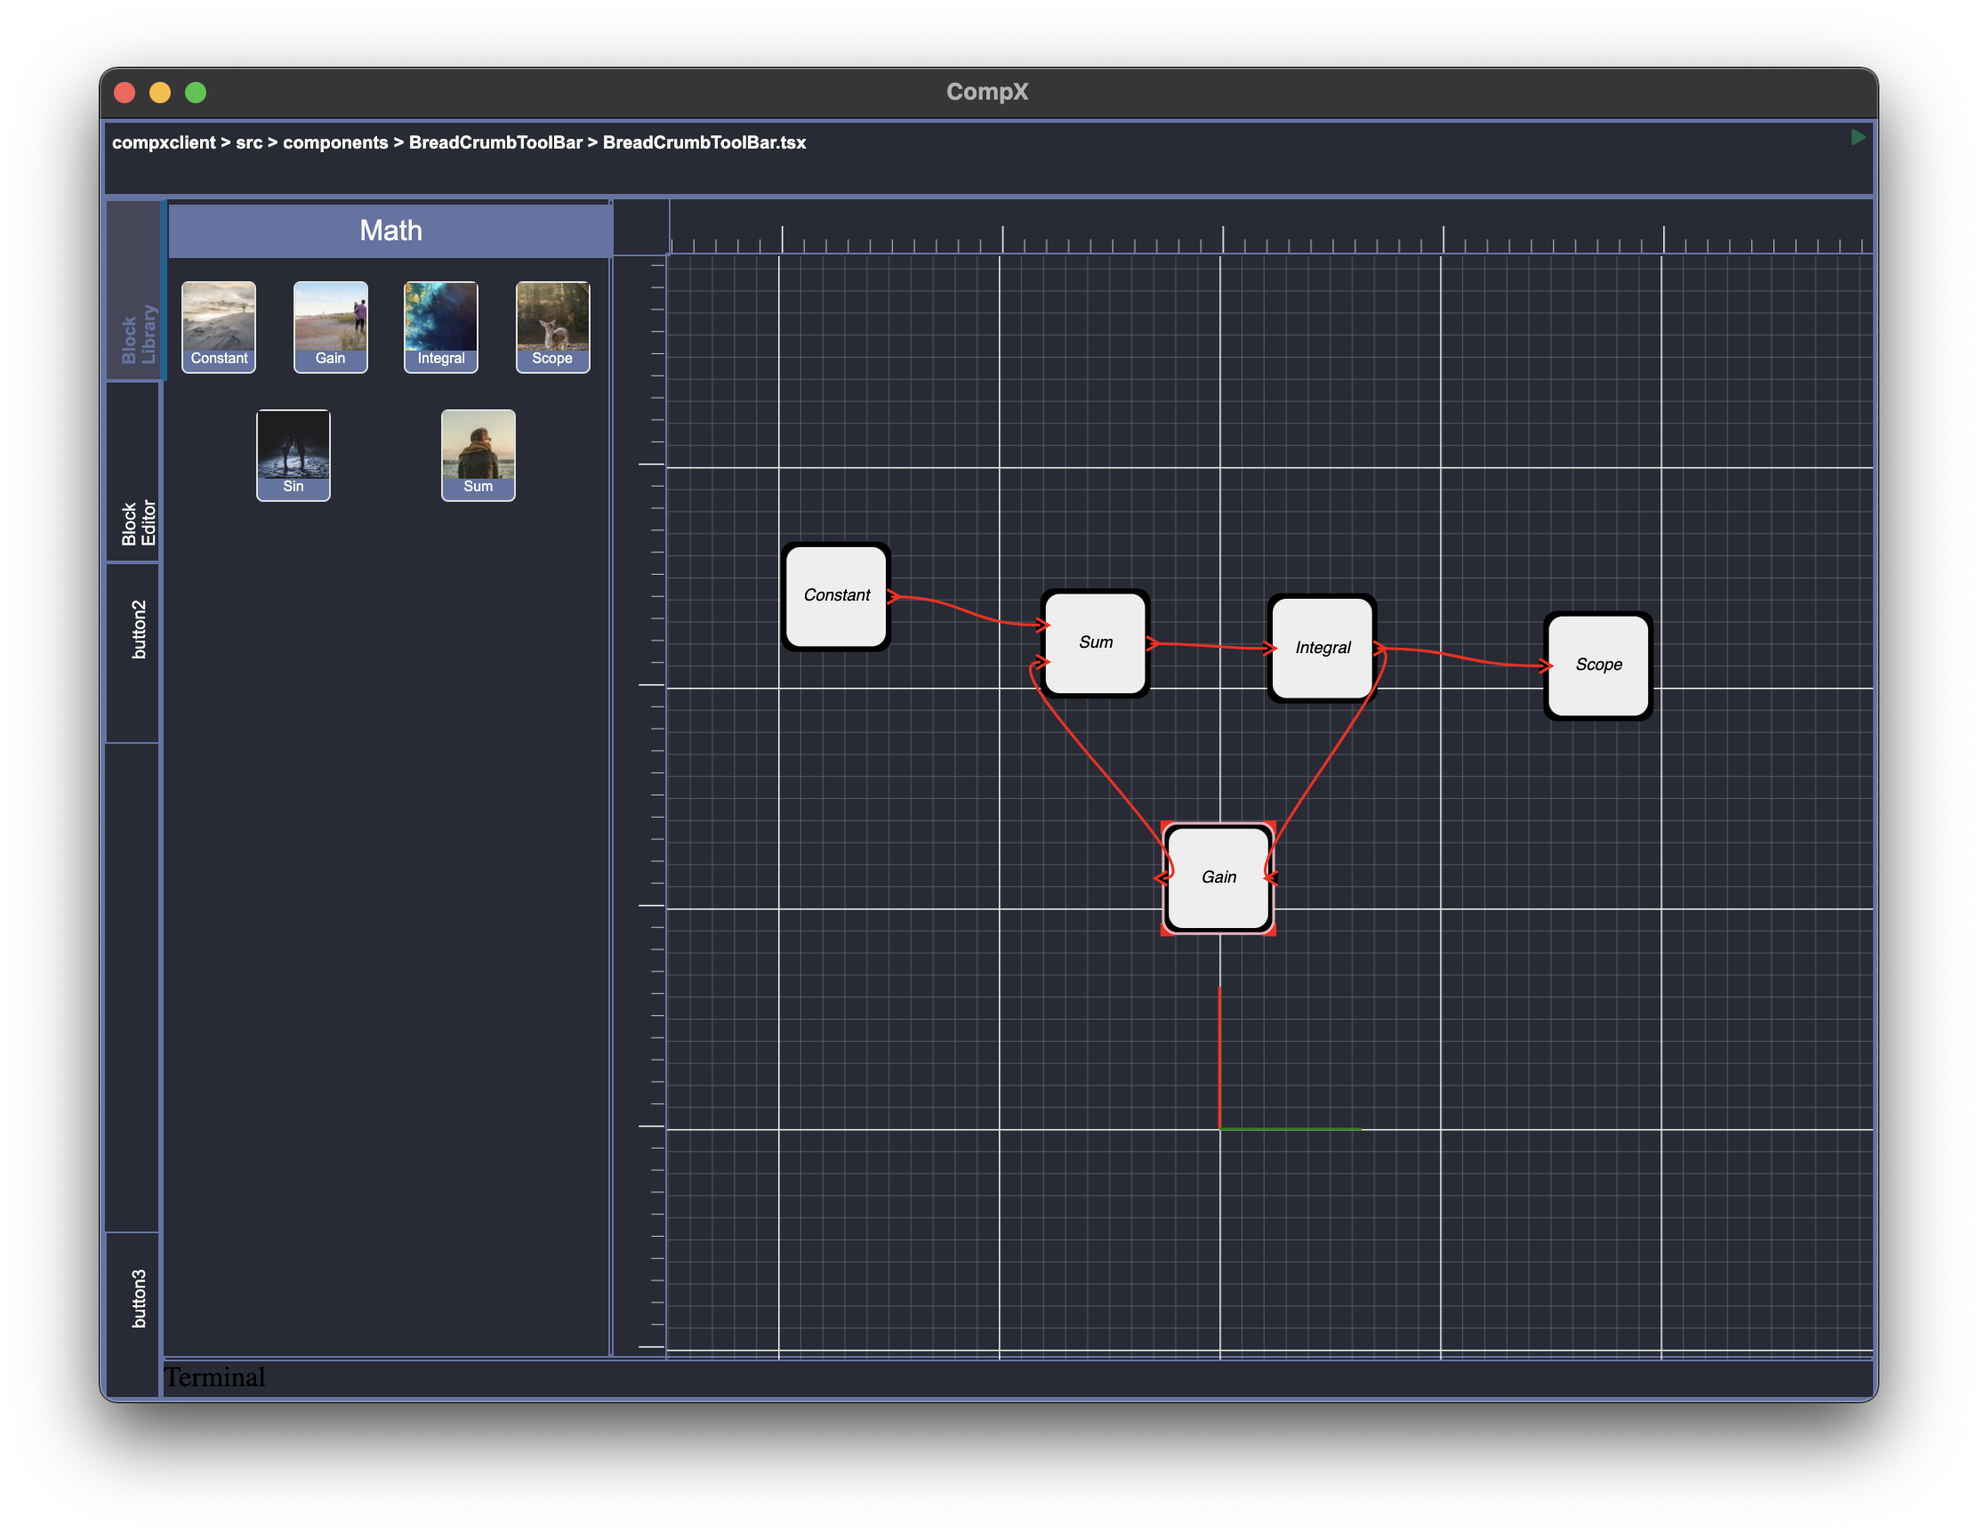
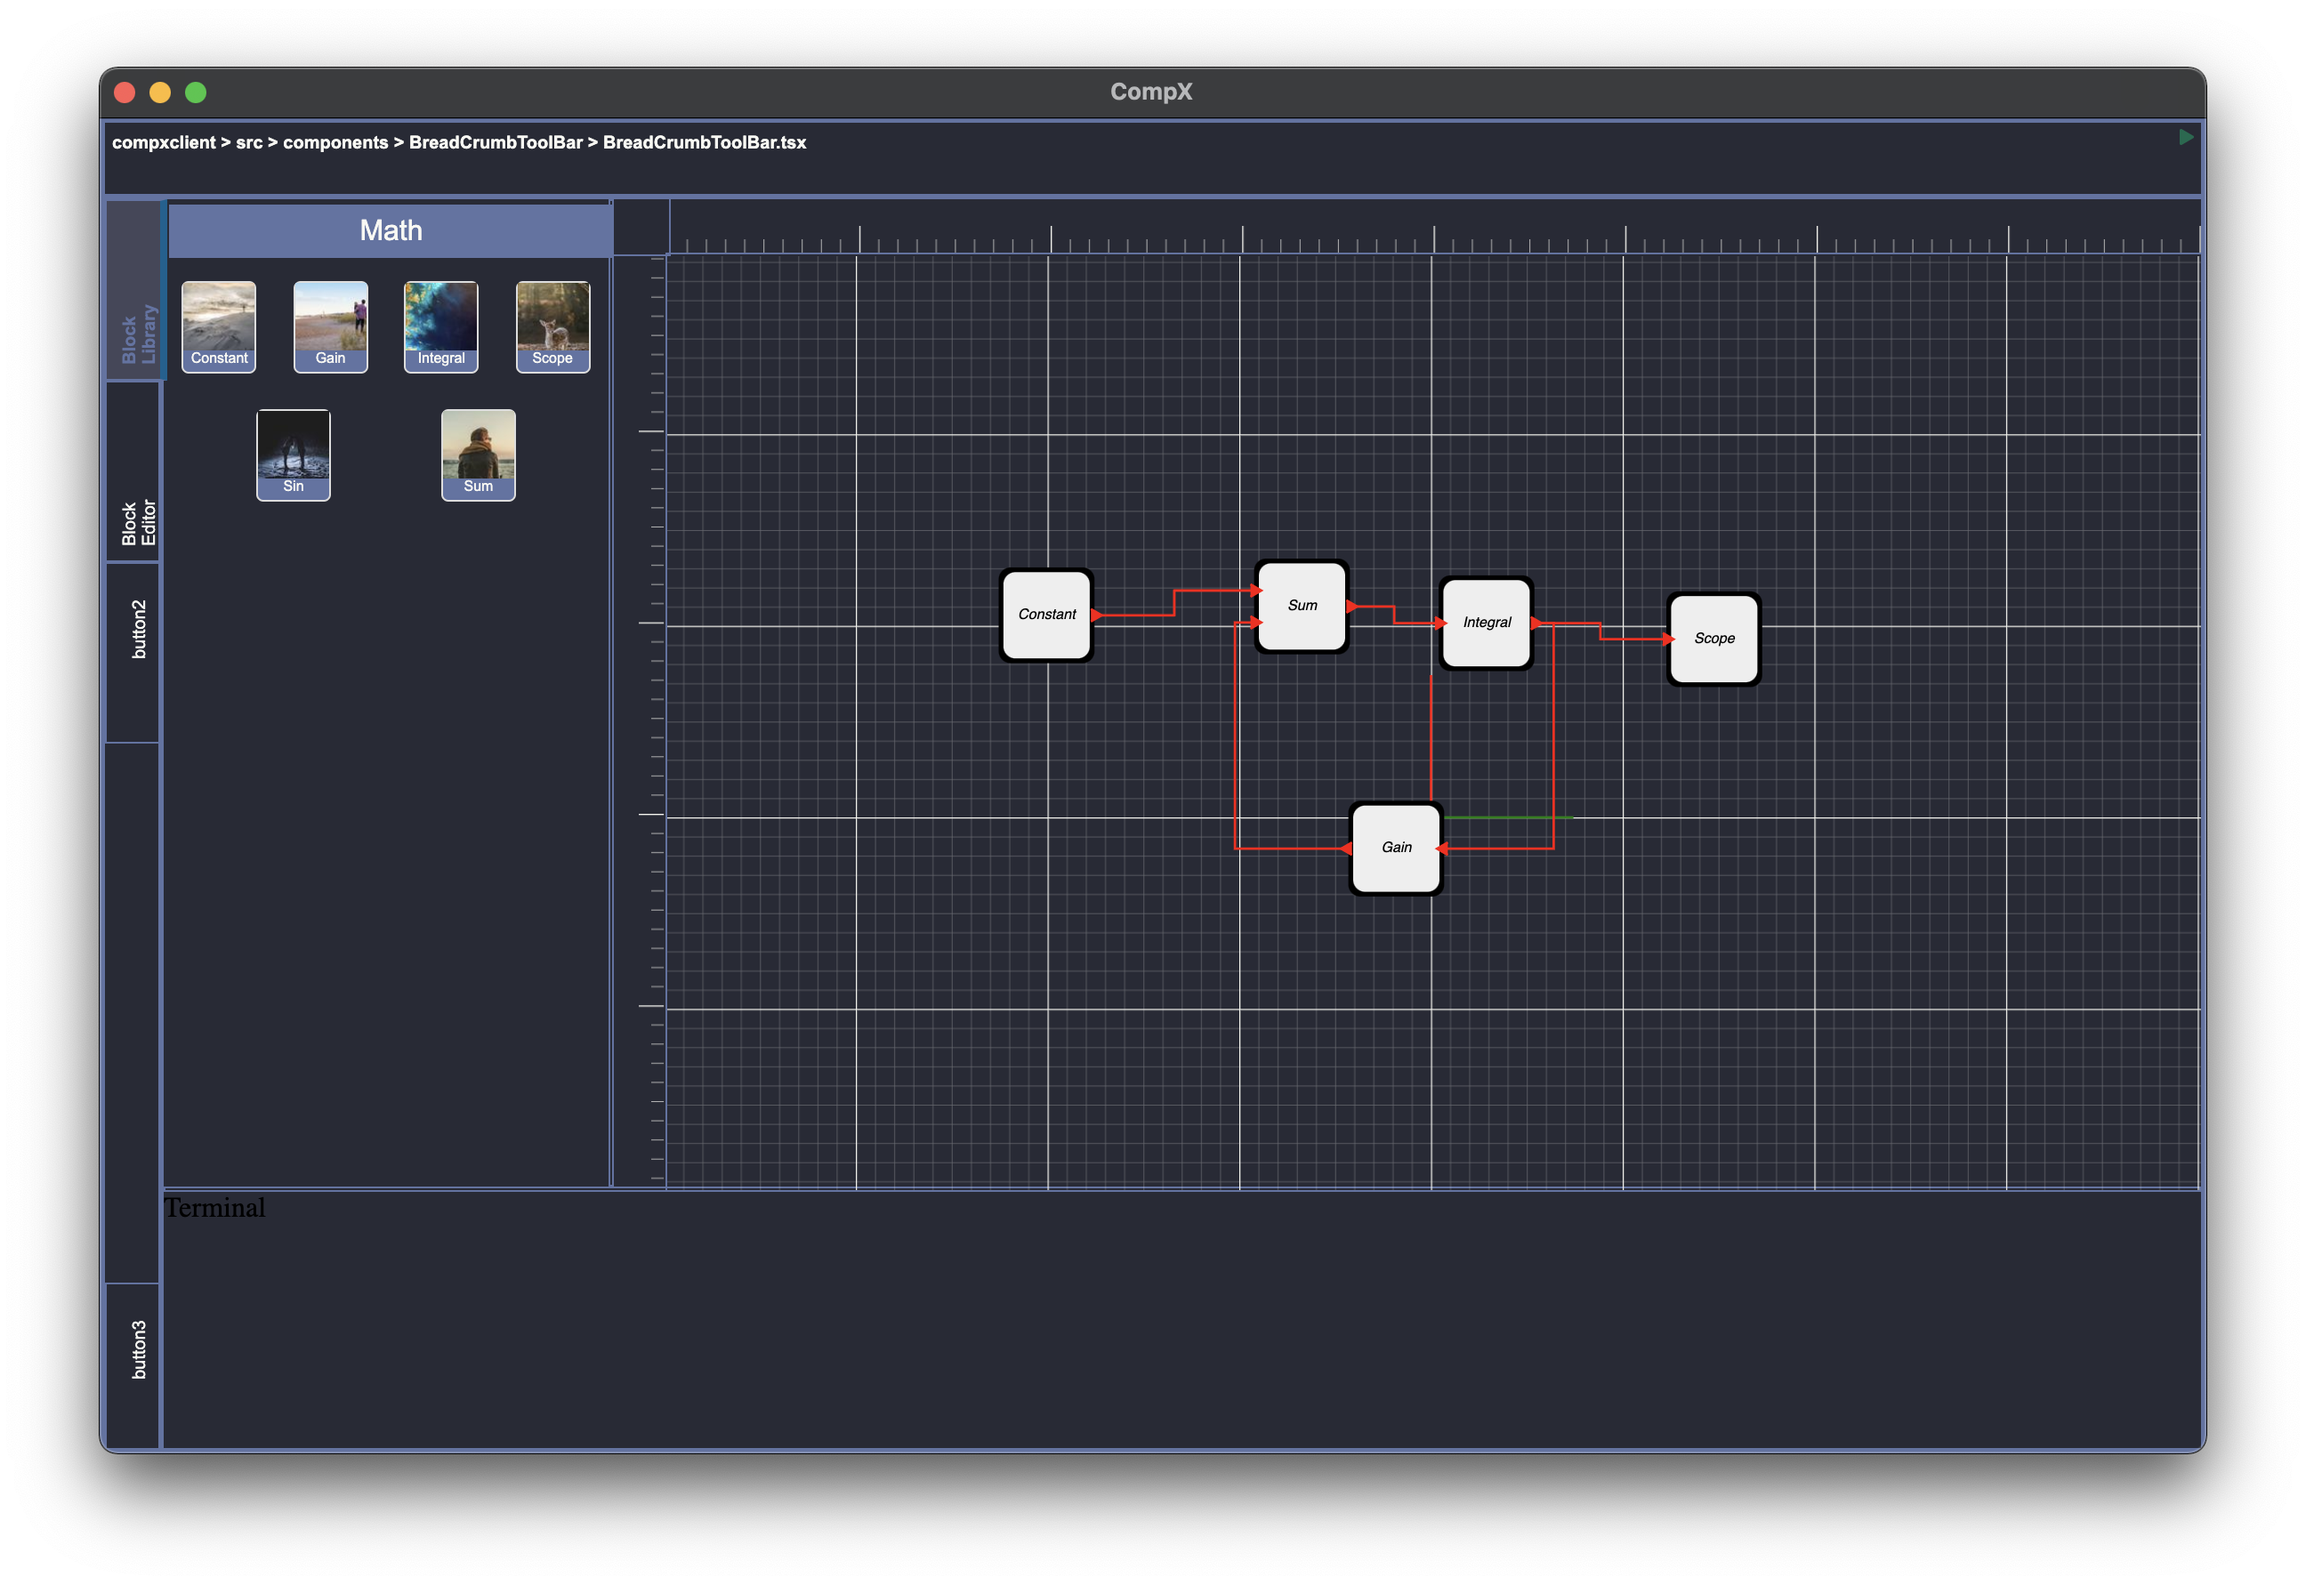
0.2.3e
- Made routing look better

Changed region(s): [[0.031, 0.0307, 0.9618, 0.953]]

diff --git a/src/app/windows/mainWindow/components/Canvas/EdgeLayer/VisualEdgeComponent.tsx b/src/app/windows/mainWindow/components/Canvas/EdgeLayer/VisualEdgeComponent.tsx
@@ -23,22 +23,40 @@ type State = never;
 
 class VisualEdgeComponent extends React.Component<Props, State> {
     getPath(): string {
-        //if ((this.props.point1BlockMirrored === undefined && this.props.point2BlockMirrored === undefined)) { //} ||
-            //(!this.props.point1BlockMirrored && !this.props.point2BlockMirrored)) {
-        if (this.props.point1.x < this.props.point2.x) {
-            const halfX = (this.props.point1.x + this.props.point2.x) / 2.0;
-            return `M ${this.props.point1.x} ${this.props.point1.y} H ${halfX} V ${this.props.point2.y} H ${this.props.point2.x}`;
-        } else {
-            const dist = 8.0;
-            const halfY = (this.props.point2.y - this.props.point1.y) / 2.0;
-            return `M ${this.props.point1.x} ${this.props.point1.y} h ${dist} v ${halfY} h ${(this.props.point2.x - this.props.point1.x) - 2 * dist} v ${halfY} h ${dist}`;
+        const dist = 8.0;
+        if ((this.props.point1BlockMirrored === undefined && this.props.point2BlockMirrored === undefined) ||
+            (!this.props.point1BlockMirrored && !this.props.point2BlockMirrored))
+        {
+            if (this.props.point1.x < this.props.point2.x) {
+                const halfX = (this.props.point1.x + this.props.point2.x) / 2.0;
+                return `M ${this.props.point1.x} ${this.props.point1.y} H ${halfX} V ${this.props.point2.y} H ${this.props.point2.x}`;
+            } else {
+                const halfY = (this.props.point2.y - this.props.point1.y) / 2.0;
+                return `M ${this.props.point1.x} ${this.props.point1.y} h ${dist} v ${halfY} h ${(this.props.point2.x - this.props.point1.x) - 2 * dist} v ${halfY} h ${dist}`;
+            }
+        } else if (this.props.point1BlockMirrored !== undefined && this.props.point2BlockMirrored !== undefined) {
+            if (this.props.point2BlockMirrored && !this.props.point1BlockMirrored) {
+                if (this.props.point1.x < this.props.point2.x) {
+                    return `M ${this.props.point1.x} ${this.props.point1.y} H ${this.props.point2.x + dist} V ${this.props.point2.y} H ${this.props.point2.x}`;
+                } else {
+                    return `M ${this.props.point1.x} ${this.props.point1.y} h ${dist} V ${this.props.point2.y} H ${this.props.point2.x}`;
+                }
+            } else if (!this.props.point2BlockMirrored && this.props.point1BlockMirrored) {
+                if (this.props.point1.x < this.props.point2.x) {
+                    return `M ${this.props.point1.x} ${this.props.point1.y} h ${-dist} V ${this.props.point2.y} H ${this.props.point2.x}`;
+                } else {
+                    return `M ${this.props.point1.x} ${this.props.point1.y} h ${(this.props.point2.x - this.props.point1.x) - dist} V ${this.props.point2.y} H ${this.props.point2.x}`;
+                }
+            } else {
+                if (this.props.point1.x < this.props.point2.x) {
+                    const halfY = (this.props.point2.y - this.props.point1.y) / 2.0;
+                    return `M ${this.props.point1.x} ${this.props.point1.y} h ${-dist} v ${halfY} h ${(this.props.point2.x - this.props.point1.x) + 2 * dist} v ${halfY} h ${-dist}`;
+                } else {
+                    const halfX = (this.props.point1.x + this.props.point2.x) / 2.0;
+                    return `M ${this.props.point1.x} ${this.props.point1.y} H ${halfX} V ${this.props.point2.y} H ${this.props.point2.x}`;
+                }
+            }
         }
-        // } else if (this.props.point1BlockMirrored !== undefined && this.props.point2BlockMirrored !== undefined) {
-        //
-        // } else {
-        //     console.log("here2");
-        //     return "";
-        // }
     }
 
     render(): React.ReactNode {

diff --git a/src/shared/lib/GraphLibrary/Port.ts b/src/shared/lib/GraphLibrary/Port.ts
@@ -51,7 +51,6 @@ export default class Port {
                 }
                 break;
         }
-        console.log(this.id);
         throw `Port value (${value}) must be type of type ${PortTypes[this.type]}`
     }
 
